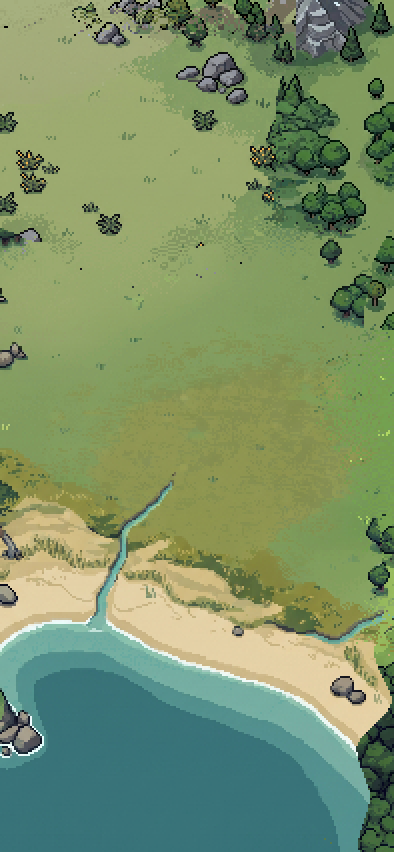
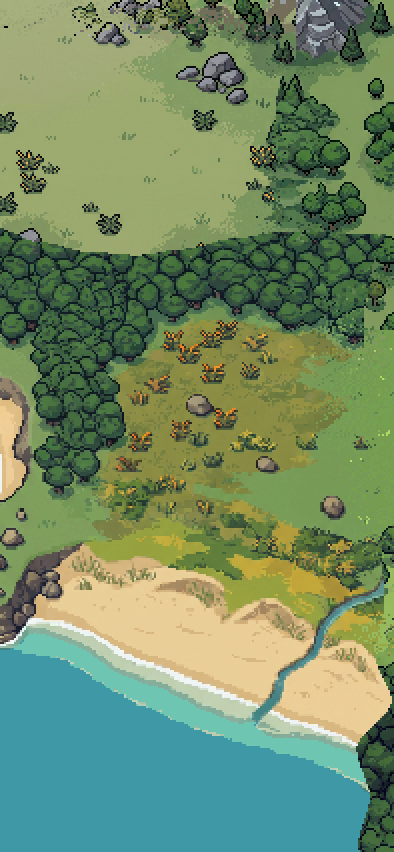
EPO03 south S3: the SW shore stops being a vertical cut — a rocky headland, a bay, a creek through the beach, the wood kept and broken; the corner's sea joins the map's one sea

diff --git a/GAME_BIBLE/ART/exploration/EPO03/tools/conform-region-water.js b/GAME_BIBLE/ART/exploration/EPO03/tools/conform-region-water.js
@@ -1,0 +1,132 @@
+// EPO03 PROD-WORLD-SOUTH — conform ONE region generation's deep water to the
+// atlas's single sea dialect, before the region is composited.
+//
+// Why this exists (DIR-02 failure mode 2, and the FMPO02 finding "generated
+// flat water has never been accepted here"): a mask that reaches open sea
+// makes the model invent its own water. S3's roll 2 came back with a grey-teal
+// sea (#438383 and neighbours, hundreds of values) where the map's sea is one
+// flat #3e98a6. The global ocean conform in package-art.js cannot fix it: its
+// rectangles start at x=300, so the south-western wedge has never been inside
+// them — which is also why the sea there was already an off-dialect turquoise
+// (#4eb9a5 / #2c9da3, 82% of it) before this round.
+//
+// So the conform is applied here instead, to the region's own pixels, using
+// `ocean_unify`'s own algorithm and its own target swatch: measure the region's
+// deep-water distribution, map it mean/std onto the target's, and SNAP each
+// mapped value to the nearest colour in the target's own palette. Every output
+// pixel is therefore a colour the accepted sea is already made of — A-2: a
+// palette remap of an approved asset; no object, silhouette or frame invented,
+// and nothing averaged. Land, sand, surf and the pale shallows fail
+// `isDeep` and are left byte-identical.
+//
+// Open-water guard (found the hard way): `isDeep` alone also matches the
+// blue-green OUTLINE pixels inside dark foliage, and the first run turned the
+// south-western wood cyan. A pixel is only conformed when it is deep AND at
+// least 80 % of its 9x9 neighbourhood is deep — i.e. it sits in the interior of
+// an open water body, never in a tree, a shadow or a one-pixel outline. The
+// surf line and the pale shallows are excluded anyway (they fail isDeep).
+//
+// Usage: node conform-region-water.js <region.png> [out.png]   (in place if no out)
+'use strict';
+const path = require('path');
+const REPO = path.resolve(__dirname, '../../../../..');
+const png = require(path.join(REPO, 'Scripts', 'art', 'png.js'));
+const ocean = require(path.join(REPO, 'GAME_BIBLE', 'ART', 'exploration',
+  'WORLD_ATLAS_COHERENCE_UI_01', 'tools', 'ocean_unify.js'));
+
+const stats = (px) => {
+  const m = [0, 0, 0];
+  for (const p of px) for (let k = 0; k < 3; k++) m[k] += p[k];
+  for (let k = 0; k < 3; k++) m[k] /= px.length;
+  const s = [0, 0, 0];
+  for (const p of px) for (let k = 0; k < 3; k++) s[k] += (p[k] - m[k]) ** 2;
+  for (let k = 0; k < 3; k++) s[k] = Math.sqrt(s[k] / px.length) || 1;
+  return { m, s };
+};
+
+// True where the pixel is deep water AND its 9x9 neighbourhood is >= 80 % deep.
+function openWater(im) {
+  const W = im.width, H = im.height;
+  const deep = new Uint8Array(W * H);
+  for (let y = 0; y < H; y++) {
+    for (let x = 0; x < W; x++) {
+      const i = im.idx(x, y);
+      if (ocean.isDeep(im.data[i], im.data[i + 1], im.data[i + 2])) deep[y * W + x] = 1;
+    }
+  }
+  const out = new Uint8Array(W * H);
+  const R = 4, NEED = 0.8;
+  for (let y = 0; y < H; y++) {
+    for (let x = 0; x < W; x++) {
+      if (!deep[y * W + x]) continue;
+      let n = 0, t = 0;
+      for (let dy = -R; dy <= R; dy++) {
+        const yy = y + dy; if (yy < 0 || yy >= H) continue;
+        for (let dx = -R; dx <= R; dx++) {
+          const xx = x + dx; if (xx < 0 || xx >= W) continue;
+          t++; if (deep[yy * W + xx]) n++;
+        }
+      }
+      if (n / t >= NEED) out[y * W + x] = 1;
+    }
+  }
+  return out;
+}
+
+function conform(region, atlas) {
+  const t = ocean.TGT;
+  const tgtPx = [];
+  for (let y = t.y; y < t.y + t.h; y++) {
+    for (let x = t.x; x < t.x + t.w; x++) {
+      const i = atlas.idx(x, y);
+      const r = atlas.data[i], g = atlas.data[i + 1], b = atlas.data[i + 2];
+      if (ocean.isDeep(r, g, b)) tgtPx.push([r, g, b]);
+    }
+  }
+  if (!tgtPx.length) throw new Error('no target water in the atlas TGT swatch');
+  const T = stats(tgtPx);
+  const palette = [...new Set(tgtPx.map((p) => (p[0] << 16) | (p[1] << 8) | p[2]))]
+    .map((v) => [(v >> 16) & 255, (v >> 8) & 255, v & 255]);
+
+  const open = openWater(region);
+  const src = [];
+  for (let y = 0; y < region.height; y++) {
+    for (let x = 0; x < region.width; x++) {
+      if (!open[y * region.width + x]) continue;
+      const i = region.idx(x, y);
+      src.push([region.data[i], region.data[i + 1], region.data[i + 2]]);
+    }
+  }
+  if (!src.length) return 0;
+  const A = stats(src);
+
+  let changed = 0;
+  for (let y = 0; y < region.height; y++) {
+    for (let x = 0; x < region.width; x++) {
+      if (!open[y * region.width + x]) continue;
+      const i = region.idx(x, y);
+      const r = region.data[i], g = region.data[i + 1], b = region.data[i + 2];
+      const mapped = [r, g, b].map((v, k) => (v - A.m[k]) * (T.s[k] / A.s[k]) + T.m[k]);
+      let best = null, bestD = Infinity;
+      for (const p of palette) {
+        const d = (p[0] - mapped[0]) ** 2 + (p[1] - mapped[1]) ** 2 + (p[2] - mapped[2]) ** 2;
+        if (d < bestD) { bestD = d; best = p; }
+      }
+      if (best[0] !== r || best[1] !== g || best[2] !== b) changed++;
+      region.data[i] = best[0]; region.data[i + 1] = best[1]; region.data[i + 2] = best[2];
+    }
+  }
+  return changed;
+}
+
+module.exports = { conform };
+
+if (require.main === module) {
+  const [inFile, outFile] = process.argv.slice(2);
+  if (!inFile) { console.error('usage: node conform-region-water.js <region.png> [out.png]'); process.exit(2); }
+  const region = png.load(inFile);
+  const atlas = png.load(path.join(REPO, 'assets', 'art', 'v1', 'world', 'atlas_base.png'));
+  const n = conform(region, atlas);
+  png.save(outFile || inFile, region);
+  console.log(`conformed ${n} deep-water px to the atlas sea dialect -> ${outFile || inFile}`);
+}

diff --git a/GAME_BIBLE/ART/exploration/EPO03/ledger/WORLD_SOUTH.md b/GAME_BIBLE/ART/exploration/EPO03/ledger/WORLD_SOUTH.md
@@ -74,4 +74,51 @@ storm-knoll pocket (168–264 × 816–952) is plain open heath, ready for LANDM
 | # | region / roll | tool | job id | canvas / mask / seed | cost line | verdict | reason |
 |---|---|---|---|---|---|---|---|
 | 4 | S3 roll 1 — the SW corner's vertical shore | inpaint_image | aec776d8-ce2d-45e7-b152-e37459caea9d | crop 300x364 @ (0,660) (c58265f, cut from the composite S2 shipped into) / mask 256x324 @ (0,40) / seed 6003 | cost: ~40 generations | **REJECT** — the coast is right (curving bay, rock headland, boulders, varying sand, creek, surf, angled dunes; lime slab gone) but the generation deleted the SW wood and left a ~120x90 dead zone with a brown stain. Intent changed for roll 2, not the seed. rejected/atlas/S3_r1.png + S3_r1_deadzone_x3.png | BEFORE, measured: the west shore is a near-vertical turquoise cut with a uniform sand ribbon and banded shallows in a brighter dialect than the rest of the sea; the wood ends on a razor vertical (longest straight vertical edge run in 0-256 x 860-1024 = 16 px at x=113, plus 14 px at x=18). Intent: a shore that swings — headland, bay, varying sand width, surf, angled dunes, machair, a creek; the wood's west face broken into copses; the lime slab given structure; the reserved storm-knoll pocket left plain |
-| 5 | S3 roll 2 — same crop/rect, changed intent | inpaint_image | 33079c45-666a-4e34-94d7-974224da0719 | crop 300x364 @ (0,660) (c58265f) / mask 256x324 @ (0,40) / seed 6013 | cost: ~40 generations | _pending_ | Intent changed, not the seed: the wood is named as KEPT ("it is not cleared"), only its straight western and northern edges break into copses; the open ground is confined to the upper middle and must be textured heath, "never an empty field"; "no bare brown patches" added to the forbidden list |
+| 5 | S3 roll 2 — same crop/rect, changed intent | inpaint_image | 33079c45-666a-4e34-94d7-974224da0719 | crop 300x364 @ (0,660) (c58265f) / mask 256x324 @ (0,40) / seed 6013 | cost: ~40 generations | **ACCEPT** | Intent changed, not the seed: the wood is named as KEPT ("it is not cleared"), only its straight western and northern edges break into copses; the open ground is confined to the upper middle and must be textured heath, "never an empty field"; "no bare brown patches" added to the forbidden list |
+
+## S3 — the SW corner (ACCEPTED)
+
+| | |
+|---|---|
+| Crop | `src/atlas/S3_crop.png`, origin (0,660), 300×364, cut from the composite S2 shipped into, published at `c58265f` |
+| Inpaint | 256×324 at (0,40) — frozen margins 0 left (canvas edge) / 40 top / 44 right / 0 bottom (canvas edge) |
+| Authored rect | atlas **0–256 × 700–1024** · ramps left 0 (canvas), right 32, top 32, bottom 0 (canvas) · salt **62** · `coreAuthor: false` (the rect stops one pixel short of x=256) |
+| Mask | 69,066 authorized · 8,861 feathered · 2,112 blocked (`south_strand_w`'s keepout, in the frozen right margin) |
+| Containment | changed-inside-mask 77,911; changed-outside-mask 5,090 (frozen margins, blocked at packaging) |
+| Goldens re-authored | `south_strand_w`, re-extracted from `raw/atlas/S3_pre_guard.png` in this commit. Registry rect unchanged. |
+| Guards | `package-art.js` **green** (1,827 files; core drift 0, 15 goldens held). `check-art-palette.js` green. `--check` currently throws ENOENT on `EPO03/out/equip/ls/traveler_coat_longsword_brace_f0.png` — PROD-EQUIPMENT's source mid-flight, not mine; an earlier `--check` this session was fully green with S1+S2 shipped. |
+| `atlas-qa.js` | repeated 10×10 sprite pairs **0**; orphan flecks 310 |
+| Straight runs | longest vertical 20 px at x=53 y 825 and 17 px at x=17 y 875 — both the rocky headland's own rock/grass and shore edges (`review/atlas/S3_r2_runs_x6.png`, left panel). Longest horizontal 15 px at y=795. |
+| Evidence | `review/atlas/S3_before_{fov,x2}.png`, `S3_r1_x2.png` (rejected), `S3_r2_x2.png`, `S3_preview_x2.png`, `S3_r2_fov160_x2.png` (the DIR-01 named FOV), `S3_r2_fov_seam_x2.png`, `S3_r2_runs_x6.png`, `S3_after_{full,x2,fov}.png` |
+
+**The water conform, and why a new tool rather than a third roll.** The roll came
+back with its own sea — `#438383` and hundreds of neighbours where the map's sea
+is one flat `#3e98a6` — the DIR-02 failure mode "a mask reaching open sea forces
+the model to invent water". The global conform in `package-art.js` cannot repair
+it: `ocean_unify`'s rectangles start at **x=300**, so the south-western wedge has
+never been inside them, which is also why the sea there was *already* an
+off-dialect turquoise (`#4eb9a5` / `#2c9da3`, 82 %) before this round. Rather
+than spend a third roll on water PixelLab has never once got right here (FMPO02:
+0/4), the region's own open water is remapped by `tools/conform-region-water.js`
+using `ocean_unify`'s own algorithm and its own target swatch: measure, map
+mean/std, snap to the target's palette — every output pixel is a colour the
+accepted sea is already made of (A-2; nothing averaged, nothing invented). The
+SW sea now measures **`#3e98a6` 100 %** against the east sea's `#3e98a6` 99 %,
+so the corner's turquoise panel is gone as well as the shoreline.
+**What the tool got wrong first, and now guards against:** `isDeep` alone also
+matches the blue-green outline pixels inside dark foliage, and the first run
+turned the wood cyan. A pixel is conformed only when ≥ 80 % of its 9×9
+neighbourhood is also deep — open-water interiors only.
+
+**Read.** The west shore is no longer a vertical turquoise cut: it swings out
+into a low rocky headland with boulders standing in the water, back into a bay
+with a wide beach, and the sand narrows to nothing at the rock. Surf hugs it; a
+creek winds out of the wood and cuts the beach. Behind it dune ridges at an
+angle, then gorse-and-bracken heath with boulders, then the wood — which is
+still there, now with a broken edge instead of a slab. The lime slab is gone.
+At the DIR-01 FOV (160,900) the stack reads wood → heath → dune → shore.
+
+**Residual, named.** At ×6 there is a tonal step ~17 px long at x≈244 where S3's
+heath meets S2's sward inside the right ramp. At 197×426 ×2
+(`S3_r2_fov_seam_x2.png`) it does not read. A bridge region is the prescribed
+fix and is affordable within the cap.
